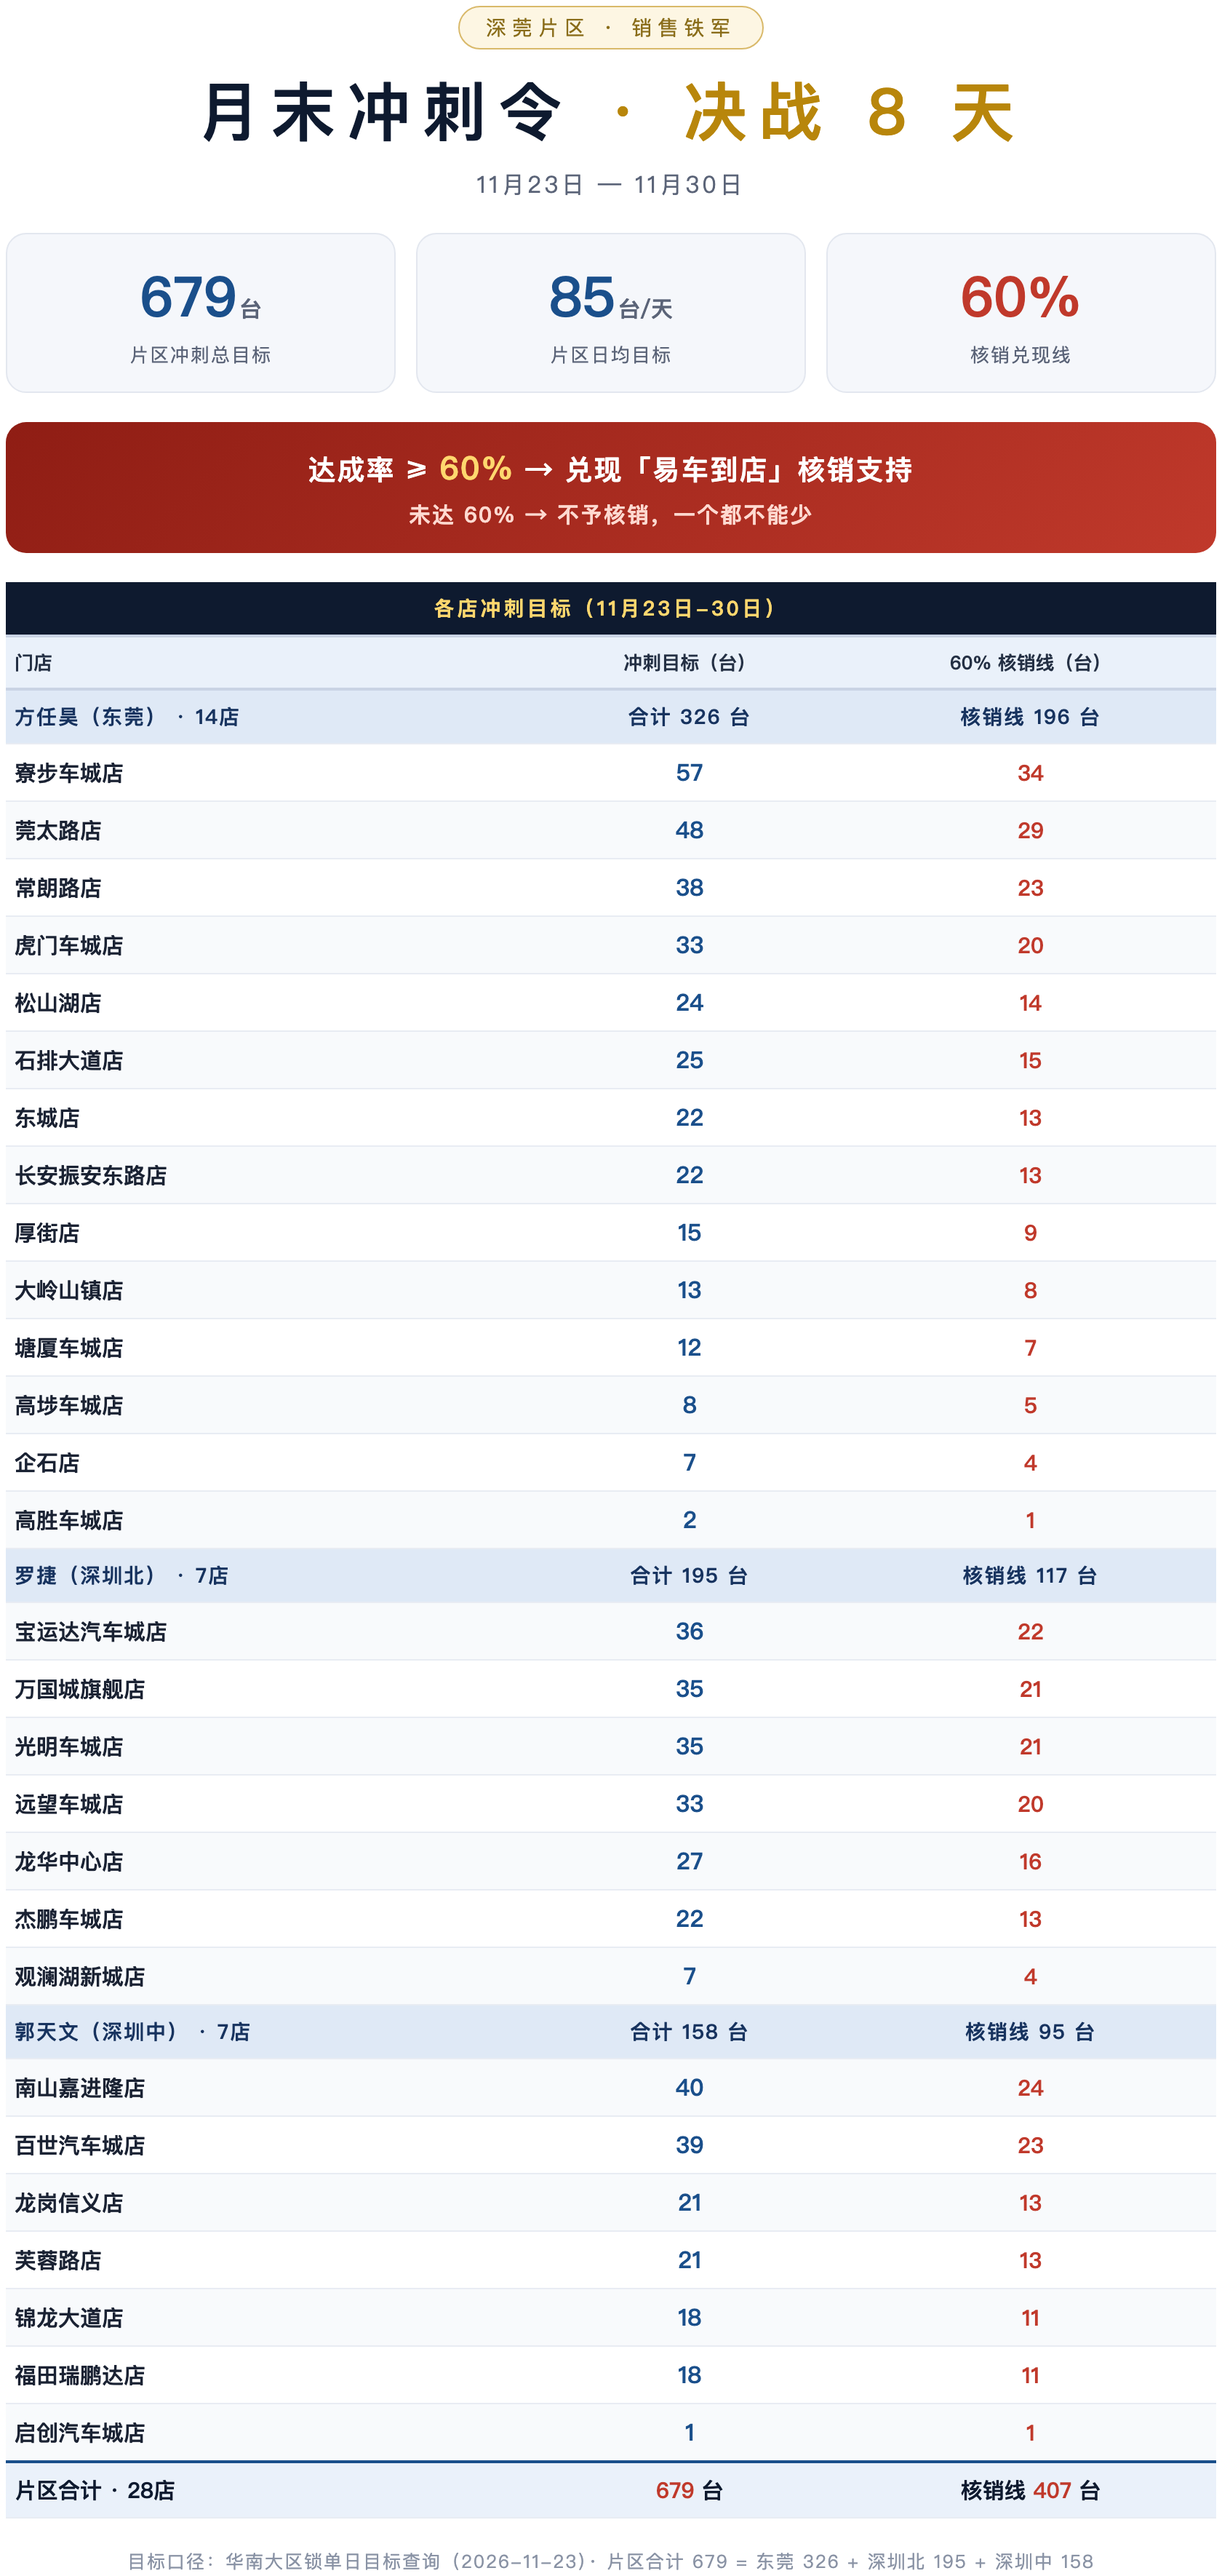
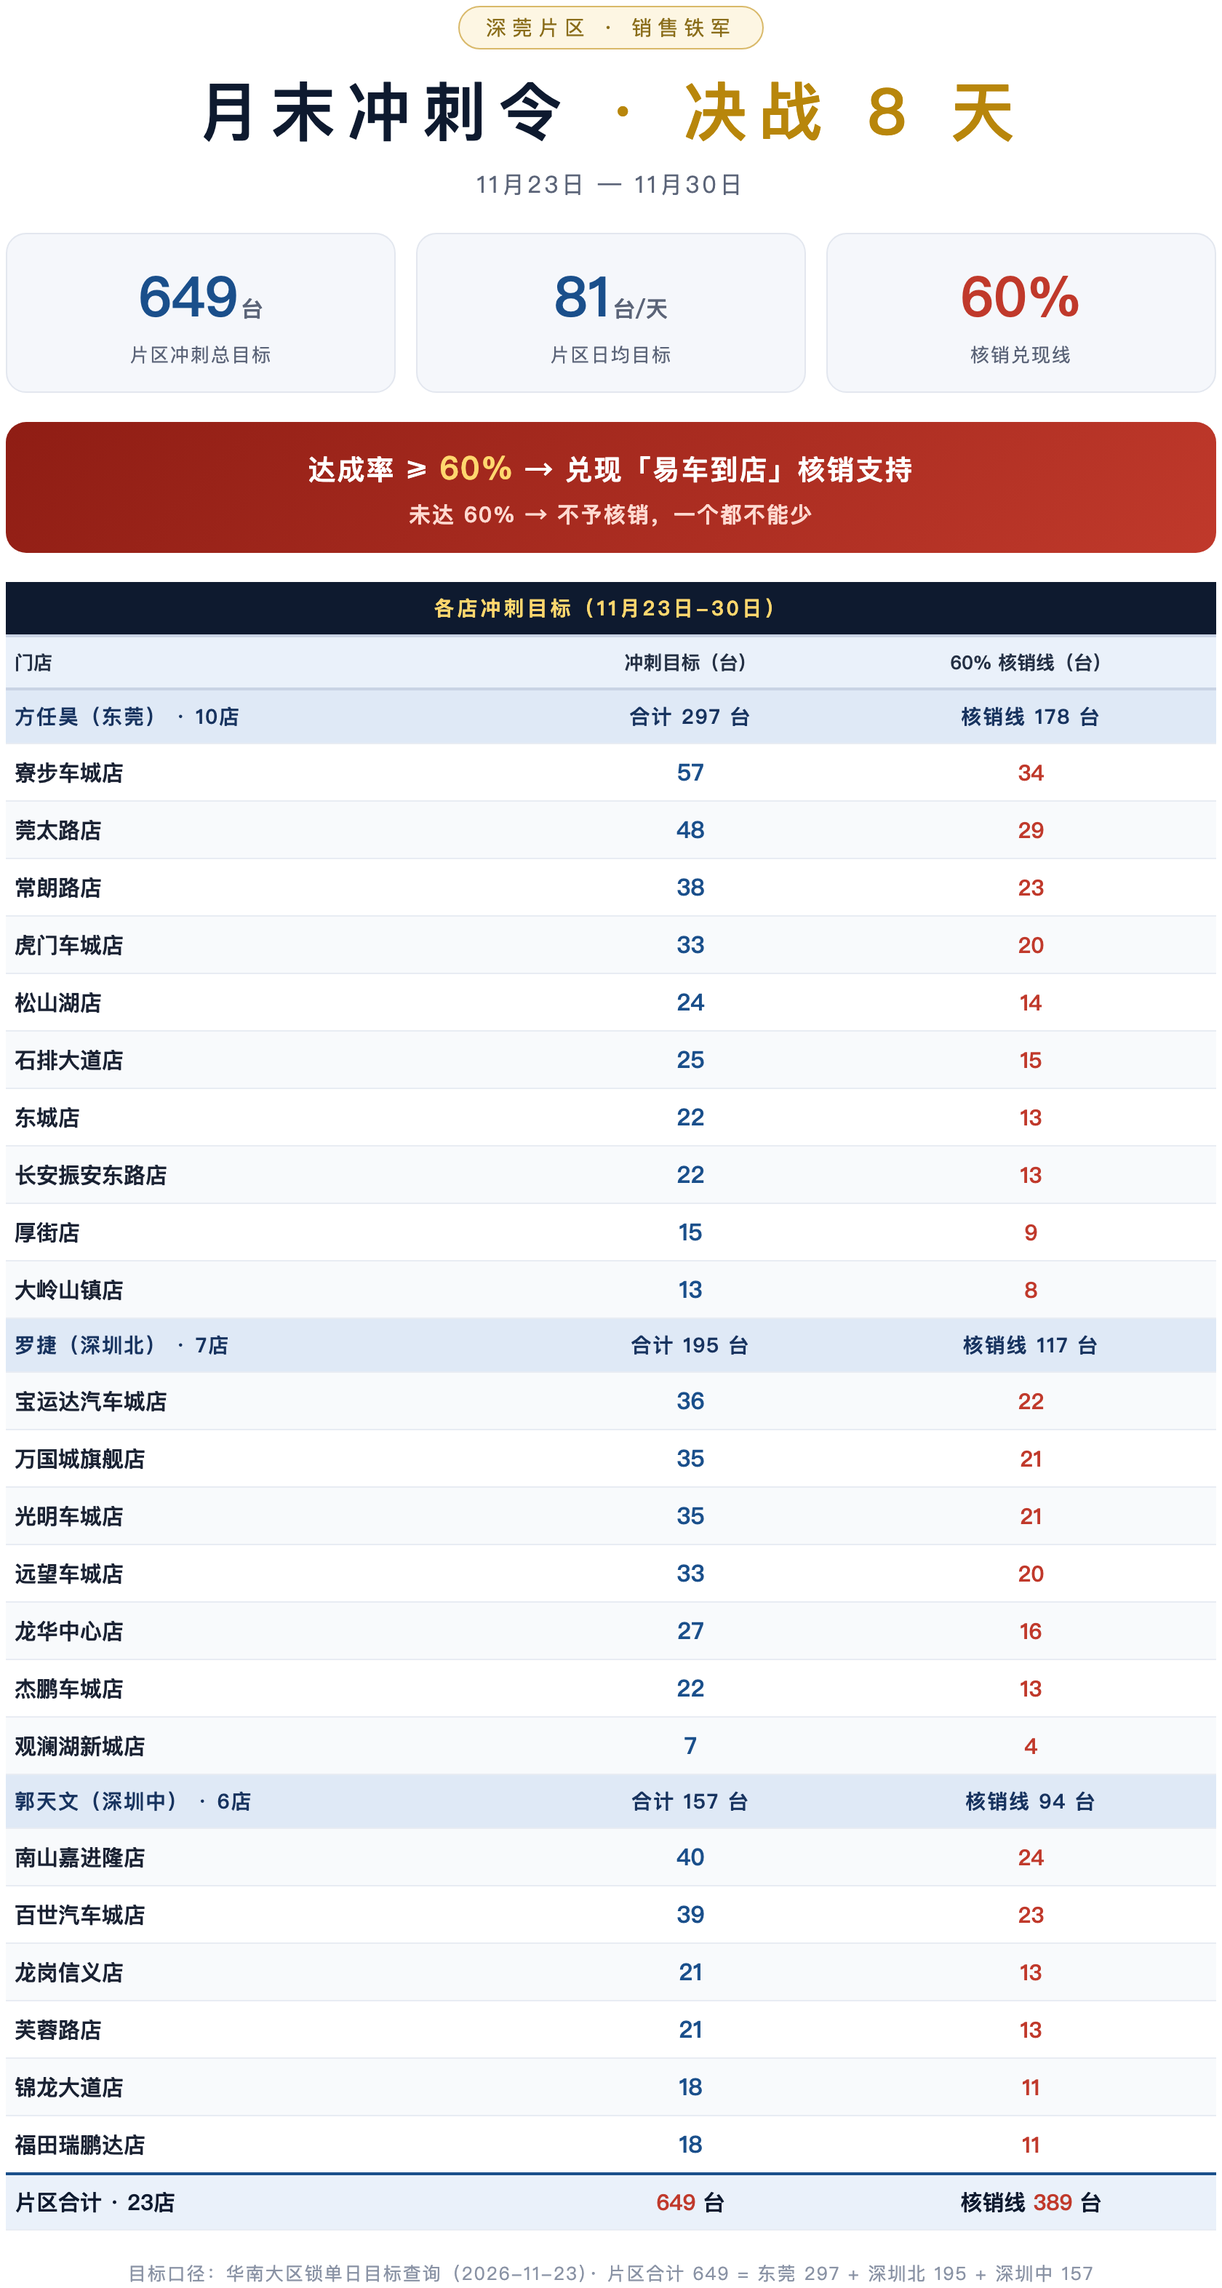
冲刺令去掉东莞后四店+深圳中启创 共23店 目标649台 核销线389

diff --git a/sprint_1123.html b/sprint_1123.html
@@ -74,10 +74,10 @@
   </div>
 
   <div class="kpis">
-    <div class="kpi"><div class="v" id="kpi-total">679<small>台</small></div><div class="l">片区 23-30 锁单总目标</div></div>
-    <div class="kpi"><div class="v">85<small>台/天</small></div><div class="l">片区日均目标（8 天）</div></div>
+    <div class="kpi"><div class="v" id="kpi-total">649<small>台</small></div><div class="l">片区 23-30 锁单总目标</div></div>
+    <div class="kpi"><div class="v">81<small>台/天</small></div><div class="l">片区日均目标（8 天）</div></div>
     <div class="kpi warn"><div class="v">≥60%</div><div class="l">门店核销兑现线</div></div>
-    <div class="kpi"><div class="v">28<small>店</small></div><div class="l">参与门店（东莞14 + 深圳14）</div></div>
+    <div class="kpi"><div class="v">23<small>店</small></div><div class="l">参与门店（东莞10 + 深圳13）</div></div>
   </div>
 
   <div class="rule">
@@ -88,10 +88,10 @@
   <div class="card">
     <h2>片区作战地图 <small>按城市 / 经理汇总</small></h2>
     <div class="citygrid">
-      <div class="c"><div class="n"><b>东莞</b>（方任昊 · 14店）</div><div class="t">326 <small>台 · 日均41</small></div></div>
+      <div class="c"><div class="n"><b>东莞</b>（方任昊 · 10店）</div><div class="t">297 <small>台 · 日均37</small></div></div>
       <div class="c"><div class="n"><b>深圳北</b>（罗捷 · 7店）</div><div class="t">195 <small>台 · 日均24</small></div></div>
-      <div class="c"><div class="n"><b>深圳中</b>（郭天文 · 7店）</div><div class="t">158 <small>台 · 日均20</small></div></div>
-      <div class="c" style="background:#f8fafc"><div class="n"><b>片区合计</b></div><div class="t">679 <small>台 · 日均85</small></div></div>
+      <div class="c"><div class="n"><b>深圳中</b>（郭天文 · 6店）</div><div class="t">157 <small>台 · 日均20</small></div></div>
+      <div class="c" style="background:#f8fafc"><div class="n"><b>片区合计</b></div><div class="t">649 <small>台 · 日均81</small></div></div>
     </div>
   </div>
 
@@ -116,8 +116,8 @@
   </div>
 
   <div class="foot">
-    目标口径：锁单日目标查询（2026-11-23 导出，华南大区下发）· 各店目标四舍五入取整后片区合计 679 台 = 东莞 326 + 深圳北 195 + 深圳中 158<br>
-    核销规则：门店达成率 = 完成量 ÷ 目标 ≥ 60% 方可兑现「易车到店」核销 · 片区核销线 407 台 · 达成情况以后续最新数据表刷新 · 生成于 2026-11-23
+    目标口径：锁单日目标查询（2026-11-23 导出，华南大区下发）· 各店目标四舍五入取整后片区合计 649 台 = 东莞 297（10店，去掉塘厦/高埗/企石/高胜）+ 深圳北 195 + 深圳中 157（6店，去掉启创）<br>
+    核销规则：门店达成率 = 完成量 ÷ 目标 ≥ 60% 方可兑现「易车到店」核销 · 片区核销线 389 台 · 达成情况以后续最新数据表刷新 · 生成于 2026-11-23
   </div>
 </div>
 
@@ -133,10 +133,6 @@ const STORES = [
   {mgr:'方任昊（东莞）', name:'东莞体验中心石排大道店', tgt:25},
   {mgr:'方任昊（东莞）', name:'东莞体验中心厚街店', tgt:15},
   {mgr:'方任昊（东莞）', name:'东莞体验中心大岭山镇店', tgt:13},
-  {mgr:'方任昊（东莞）', name:'东莞零跑中心塘厦车城店', tgt:12},
-  {mgr:'方任昊（东莞）', name:'东莞体验中心高埗车城店', tgt:8},
-  {mgr:'方任昊（东莞）', name:'东莞体验中心企石店', tgt:7},
-  {mgr:'方任昊（东莞）', name:'东莞体验中心高胜车城店', tgt:2},
   {mgr:'罗捷（深圳北）', name:'深圳零跑中心宝运达汽车城店', tgt:36},
   {mgr:'罗捷（深圳北）', name:'深圳零跑中心万国城旗舰店', tgt:35},
   {mgr:'罗捷（深圳北）', name:'深圳零跑中心光明车城店', tgt:35},
@@ -150,7 +146,6 @@ const STORES = [
   {mgr:'郭天文（深圳中）', name:'深圳体验中心芙蓉路店', tgt:21},
   {mgr:'郭天文（深圳中）', name:'深圳体验中心锦龙大道店', tgt:18},
   {mgr:'郭天文（深圳中）', name:'深圳体验中心福田瑞鹏达店', tgt:18},
-  {mgr:'郭天文（深圳中）', name:'深圳体验中心启创汽车城店', tgt:1},
 ];
 
 function render(){
@@ -171,7 +166,7 @@ function render(){
     </tr>`;
   });
   const grand = STORES.reduce((a,s)=>a+s.tgt,0);
-  html += `<tr class="total-row"><td class="store">片区合计（28店）</td><td class="num">${grand}</td><td class="num">日均 ${Math.round(grand/8)}</td><td class="num">核销线 ${Math.round(grand*0.6)}</td></tr>`;
+  html += `<tr class="total-row"><td class="store">片区合计（23店）</td><td class="num">${grand}</td><td class="num">日均 ${Math.round(grand/8)}</td><td class="num">核销线 ${Math.round(grand*0.6)}</td></tr>`;
   body.innerHTML = html;
 }
 render();
